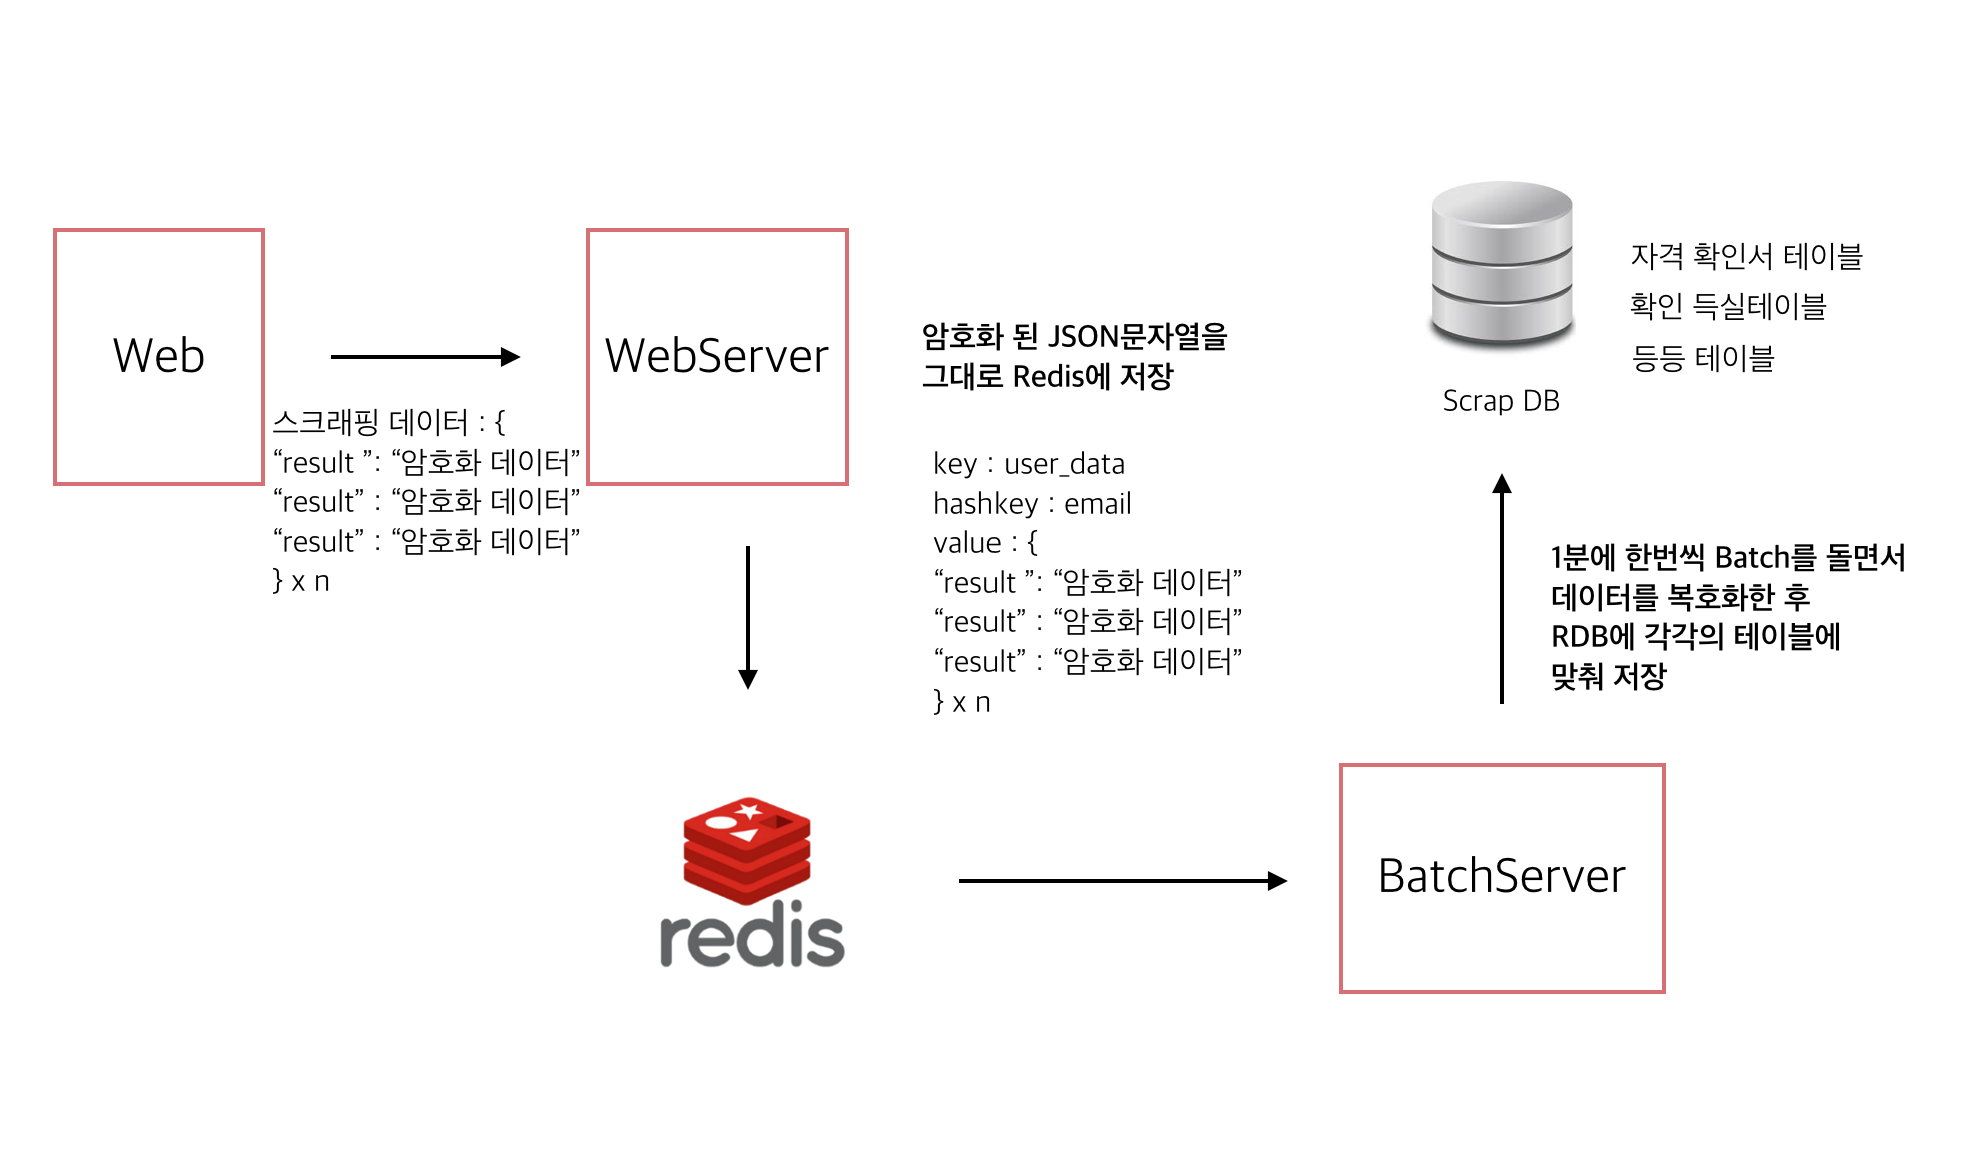
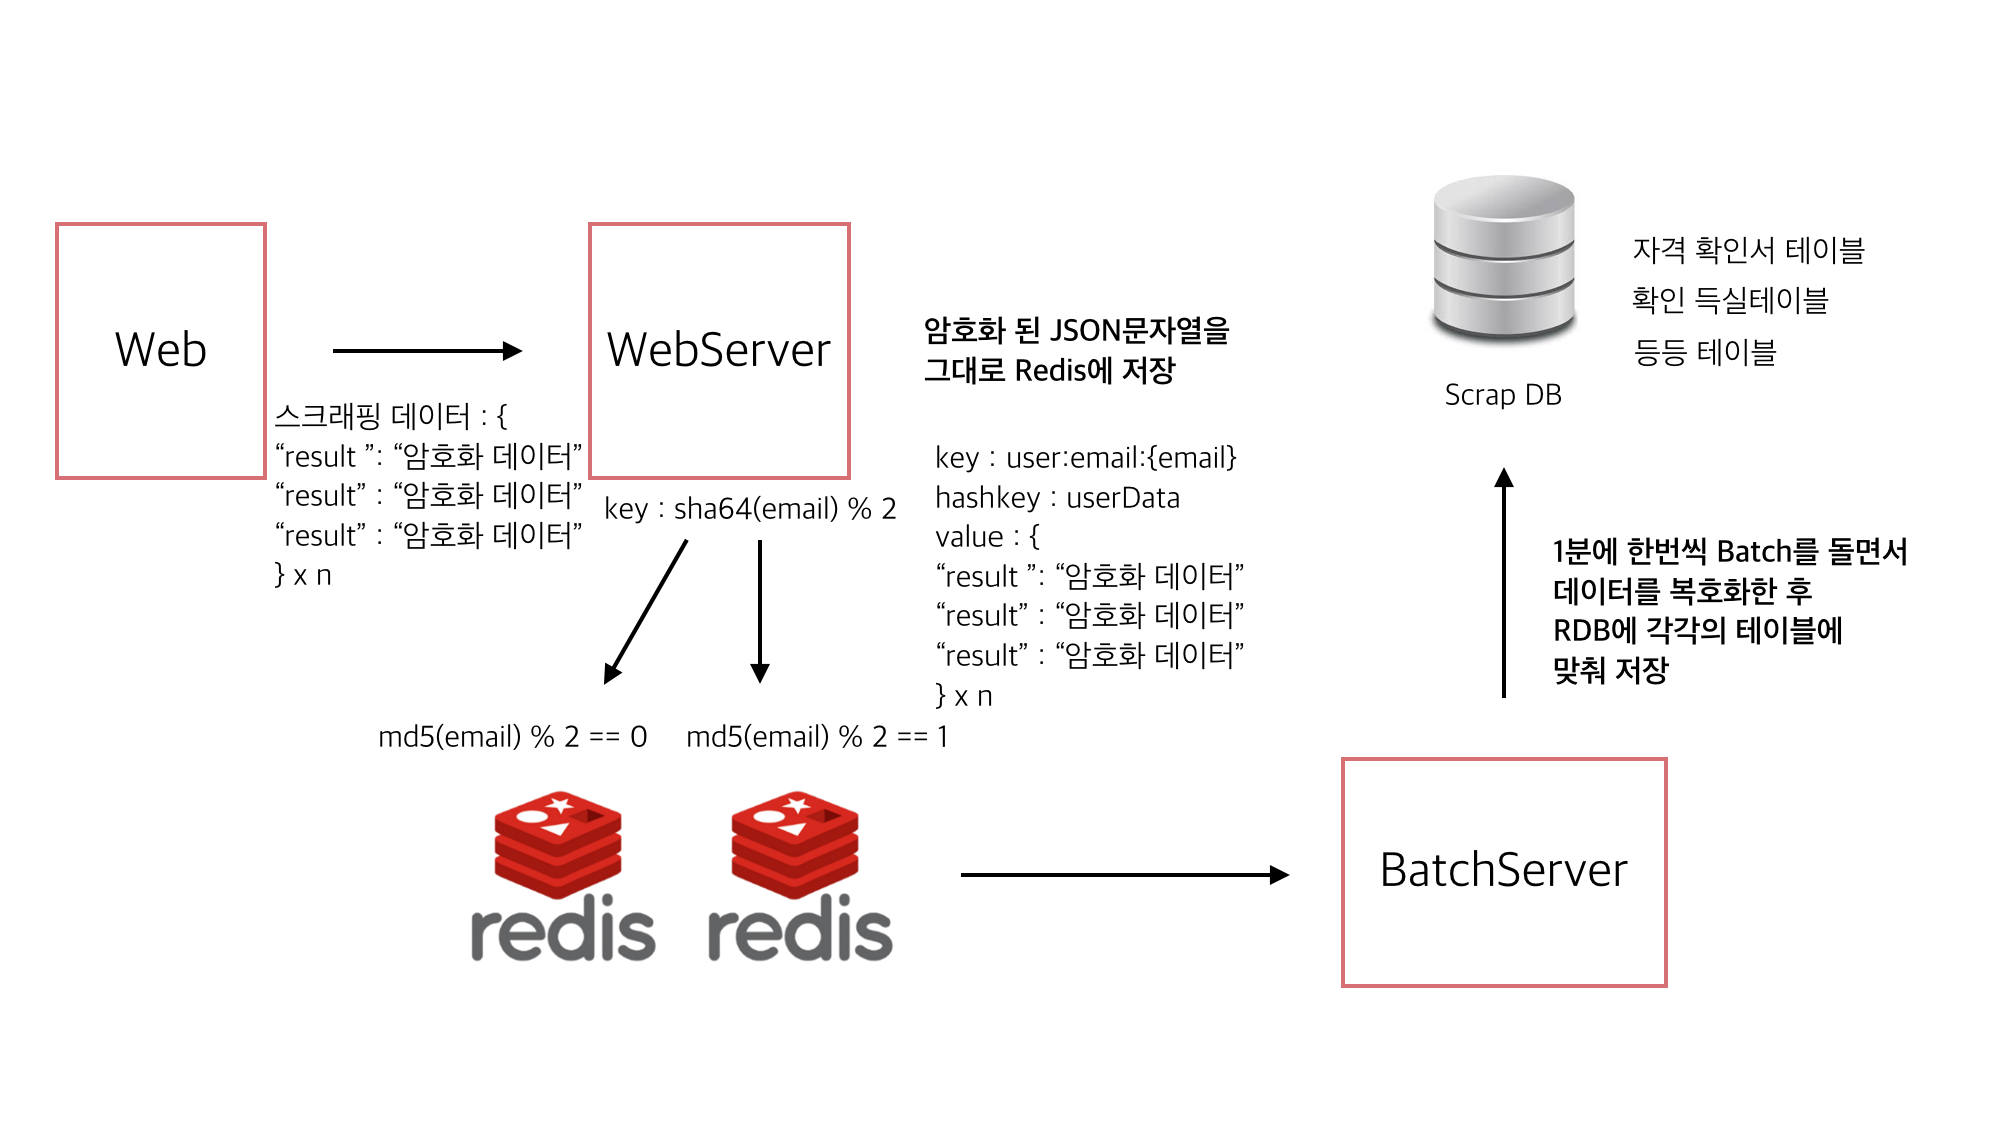
데이터 처리 수정
데이터 처리 수정

diff --git a/partials/startup-board/project_k.html b/partials/startup-board/project_k.html
@@ -34,8 +34,9 @@
         
         <img src="img/dataRedis.png" width="800" height="650"><br>
         
-        <h4>1. 문자열 그대로 Redis에 캐싱한다.</h4>
-        <h4>2. 배치서버를 만들어 복호화를 하고 RDB에 테이블 별로 저장한다. </h4><br>
+        <h4>1. 문자열 그대로 Redis에 저장을 준비한다.</h4>
+        <h4>2. sha64로 email을 암호화한뒤 %2를 한후 나머지를 통해 데이터를 샤딩한다.</h4>
+        <h4>3. 배치서버를 만들어 복호화를 하고 RDB에 테이블 별로 저장한다. </h4><br>
         
         <p>&nbsp;배치서버를 하나더 만들어야 하는 번잡스러움이 생겼지만, 이것이 조금 더 안정적이고 서비스의 부담을 줄여줄 수 있을 것이다. 그리고 그냥 Redis를 저장소로 사용할 수 도 있었지만, 이렇게 RDB에 저장하는건 사내의 ERP개발자분들이 Redis에 저장해놓는 것보다 RDB를 보는 것이 더 편할 것이기 때문이다.</p><br>
         <p>테스트도 다 완료 했고, 이제 서비스가 돌아가는 것을 보는일만 남았다. 사실 어려움도 있었지만, 이렇게 개발을 하면서 많은 생각을 할 수 있어서 재밌었다.</p>
